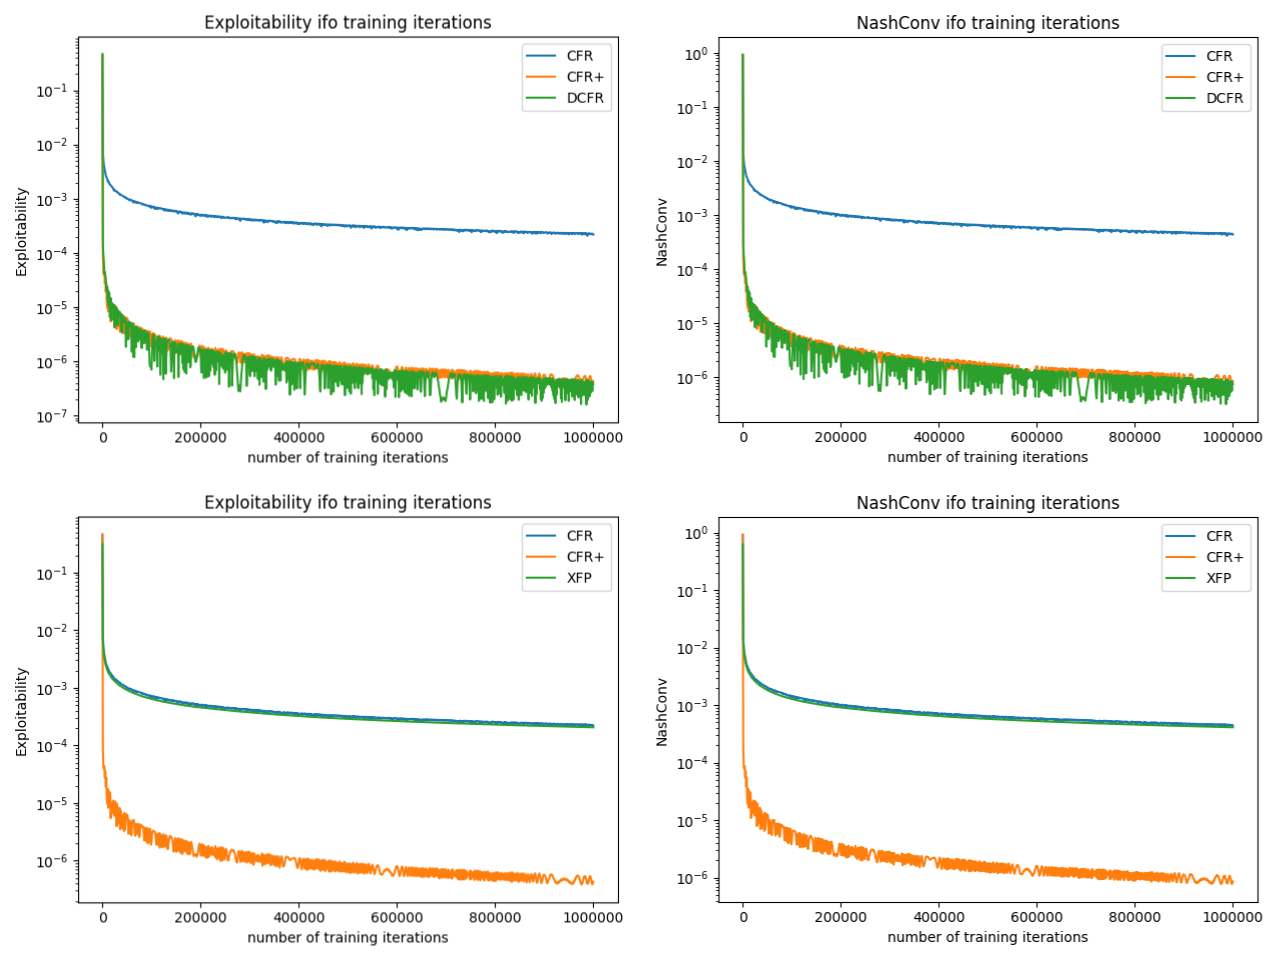
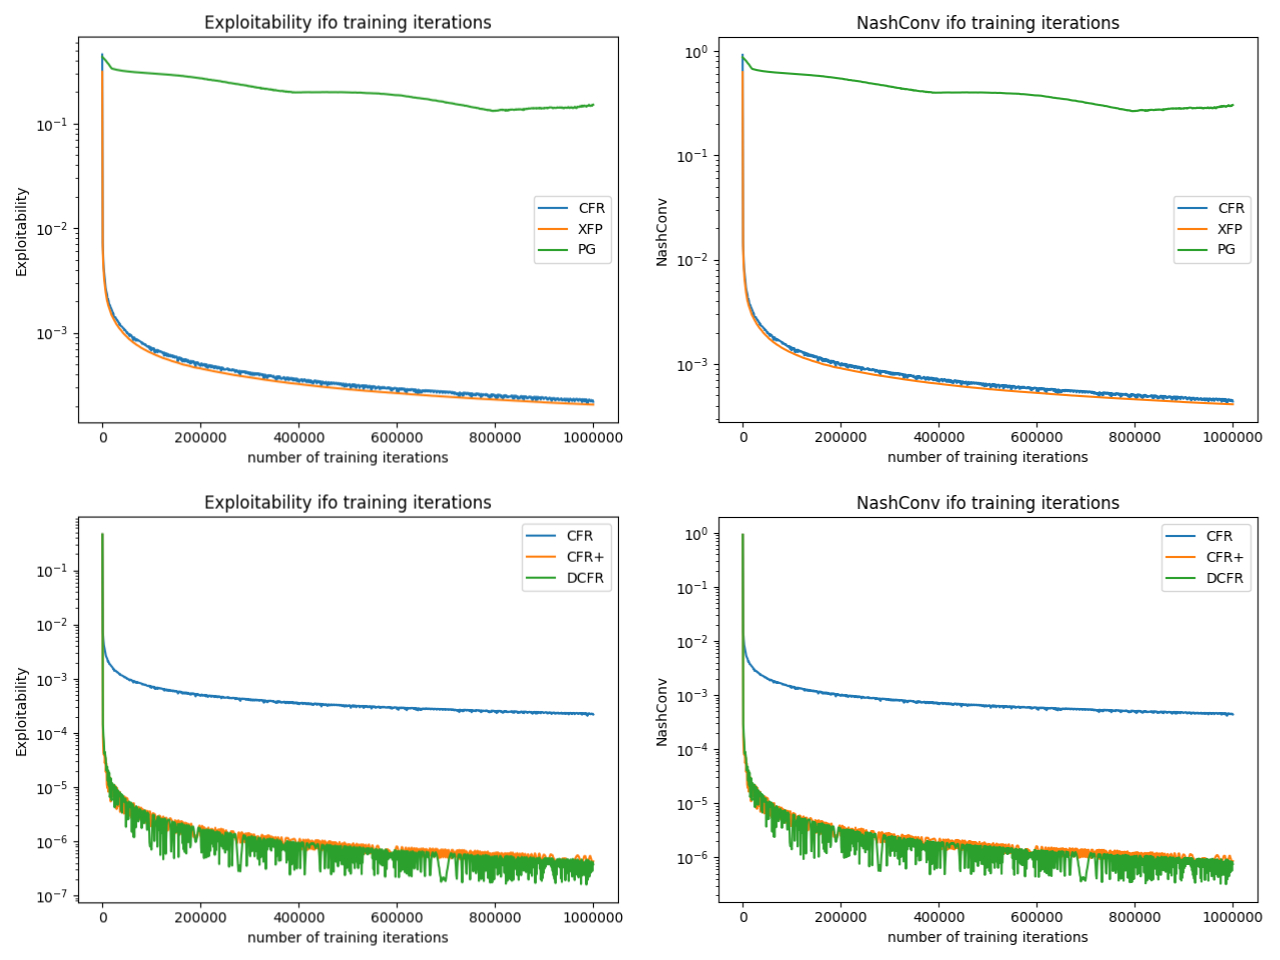
fixed errrata figure

diff --git a/src/POKERS/kuhn_poker/main_kuhn.py b/src/POKERS/kuhn_poker/main_kuhn.py
@@ -22,7 +22,7 @@ def main(_):
 
     # TESTING
     # PLOTTING
-    utils_poker.plot_policies(game, {'CFR': 'CFR/base/', 'CFR+': 'CFRPlus/base/', 'DCFR': 'CFR_Discounted/base/'}, extract_metrics=False, max_iter=int(1e6))
+    utils_poker.plot_policies(game, {'CFR': 'CFR/base/', 'XFP': 'XFP/base/', 'PG': 'PG/base/'}, extract_metrics=False, max_iter=int(1e6))
     # ROUNDING
     # cfr_policy = policy_handler.load_to_tabular_policy('policies/CFRPlus/base/1000000')
     # utils_poker.print_algorithm_results(game, cfr_policy, 'CFRPlus no rounding')
